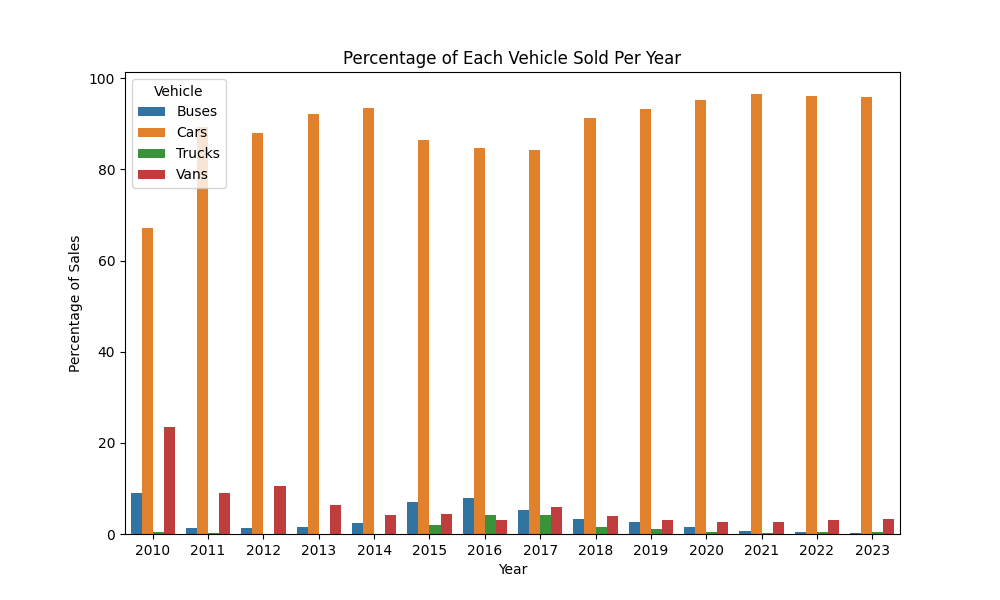
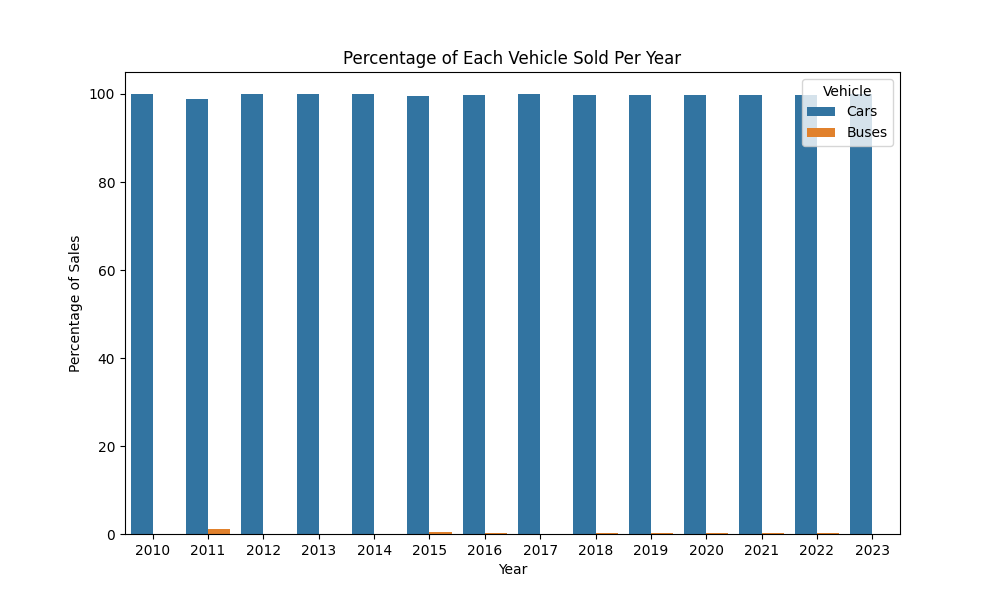
reworked q10 and ran all cells check

Changed region(s): [[0.093, 0.12, 0.899, 0.9]]

diff --git a/README.md b/README.md
@@ -50,5 +50,5 @@
   - Visualization: ![Q9 Visualization](Visualizations/Question%209%20Visualization.png)
 
 - [x] Question 10: How have the percentage of electric vehicles sold in the United States changed over time?
-  - Answer: 
+  - Answer: Surprisingly no vans or trucks, mostly cars
   - Visualization: ![Q10 Visualization](Visualizations/Question%2010%20Visualization.png)
